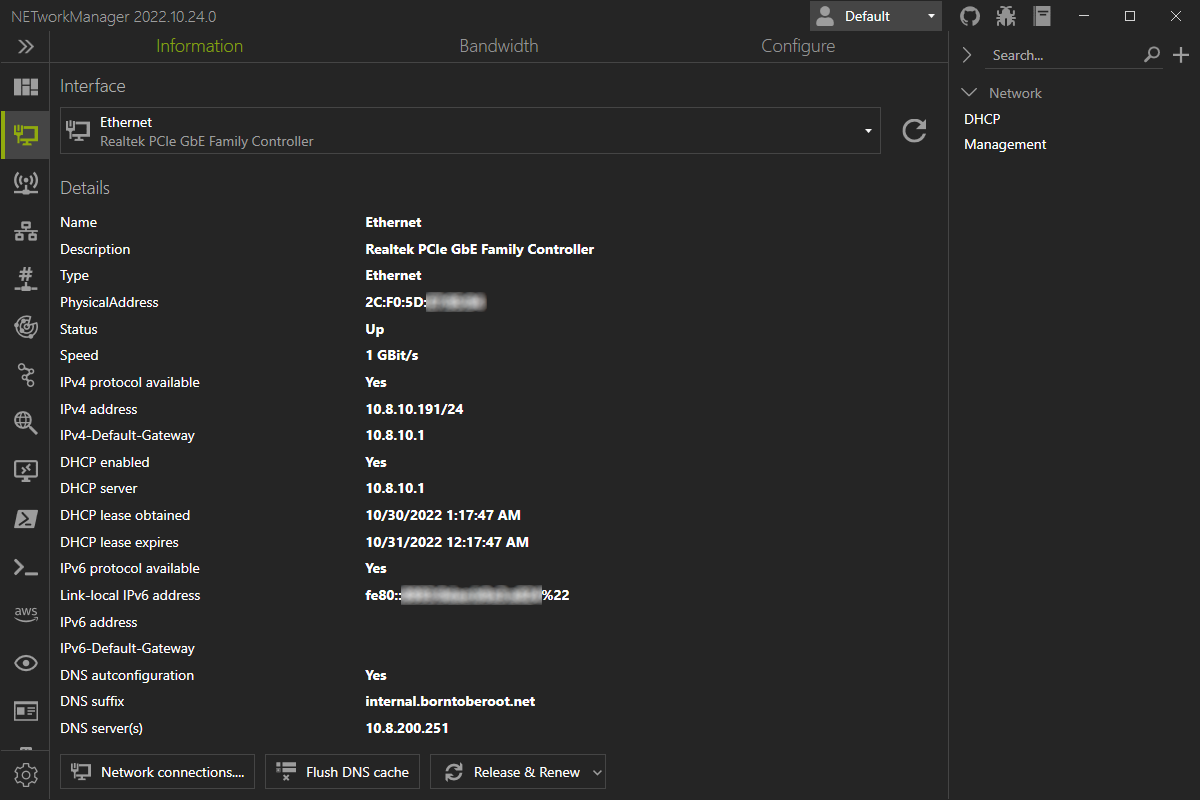
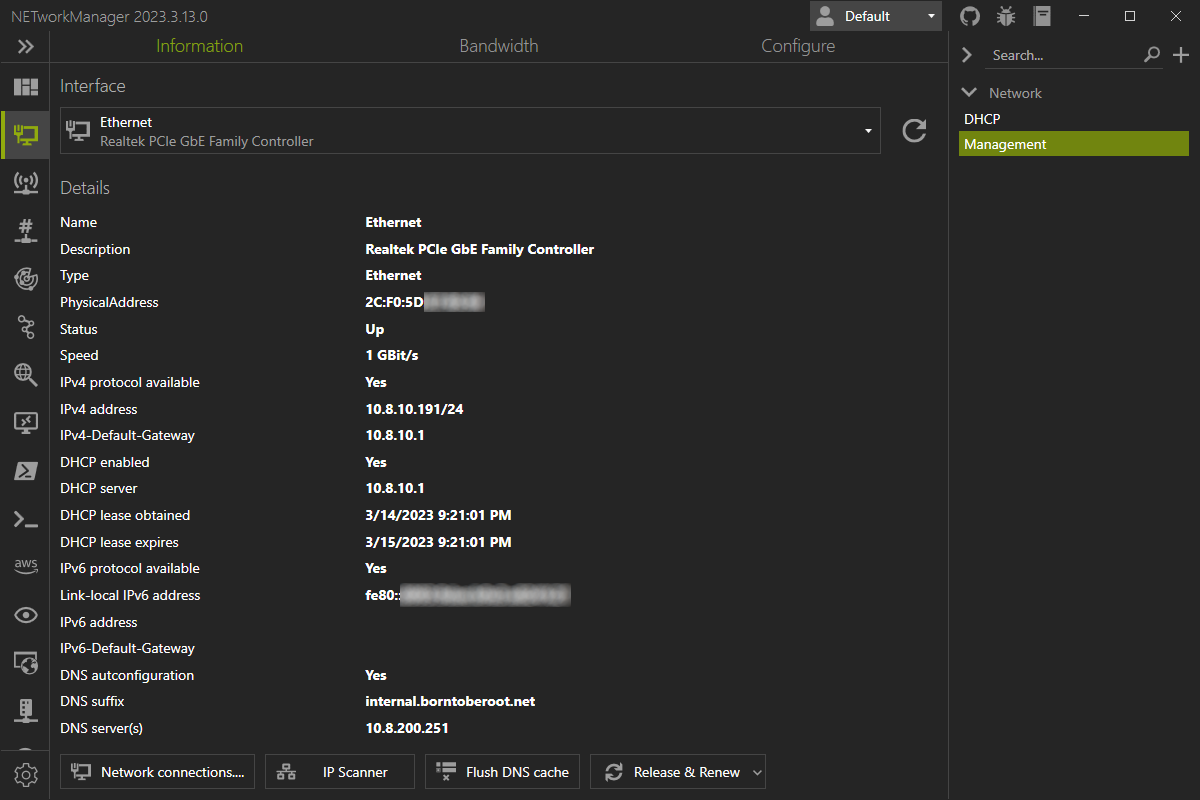
Docs: Add #2046 #2043 (#2047)

diff --git a/docs/Documentation/01_Application/02_NetworkInterface.md b/docs/Documentation/01_Application/02_NetworkInterface.md
@@ -18,17 +18,18 @@ On the **Information** tab, you can see all the important details of the selecte
 
 In addition, further actions can be performed using the buttons at the bottom left:
 
-- **Network connections...** - Opens the `Control Panel > Network and Internet > Network Connections` window
-- **Flush DNS cache** - Flush the DNS cache (`ipconfig /flushdns`)
+- **Network connections...** - Opens the `Control Panel > Network and Internet > Network Connections` window.
+- **IP Scanner** - Opens the [IP Scanner](/Documentation/Application/IPScanner) tool and forwards the IPv4 address and subnetmask of the _selected_ network adapter.
+- **Flush DNS cache** - Flush the DNS cache (`ipconfig /flushdns`).
 - **Release & Renew**
   - **IPv4**
-    - **Release & Renew** - Releases the current IPv4 addresses obtained via DHCP and renews them via DHCP for the _selected_ network adapter that is configured to automatically obtain an IPv4 address (`ipconfig /release && ipconfig /renew`)
-    - **Release** - Releases the current IPv4 addresses obtained via DHCP for the _selected_ network adapter that is configured to automatically obtain an IPv4 address. (`ipconfig /release`)
-    - **Renew** - Renews the current IPv4 address via DHCP for the _selected_ network adapter that is configured to automatically obtain an IPv4 address. (`ipconfig /renew`)
+    - **Release & Renew** - Releases the current IPv4 addresses obtained via DHCP and renews them via DHCP for the _selected_ network adapter that is configured to automatically obtain an IPv4 address (`ipconfig /release && ipconfig /renew <ADAPTER>`).
+    - **Release** - Releases the current IPv4 addresses obtained via DHCP for the _selected_ network adapter that is configured to automatically obtain an IPv4 address (`ipconfig /release <ADAPTER>`).
+    - **Renew** - Renews the current IPv4 address via DHCP for the _selected_ network adapter that is configured to automatically obtain an IPv4 address (`ipconfig /renew <ADAPTER>`).
   - **IPv6**
-    - **Release & Renew** - Releases the current IPv6 addresses obtained via DHCPv6 and renews them via DHCPv6 for the _selected_ adapter that ist configured to automatically obtain an IPv6 address (`ipconfig /release6 && ipconfig /renew6`)
-    - **Release** - Releases the current IPv6 addresses obtained via DHCPv6 for the _selected_ network adapter that is configured to automatically obtain an IPv6 address. (`ipconfig /release6`)
-    - **Renew** - Renews the current IPv6 address via DHCPv6 for the _selected_ network adapter that is configured to automatically obtain an IPv6 address. (`ipconfig /renew6`)
+    - **Release & Renew** - Releases the current IPv6 addresses obtained via DHCPv6 and renews them via DHCPv6 for the _selected_ adapter that ist configured to automatically obtain an IPv6 address (`ipconfig /release6 && ipconfig /renew6 <ADAPTER>`).
+    - **Release** - Releases the current IPv6 addresses obtained via DHCPv6 for the _selected_ network adapter that is configured to automatically obtain an IPv6 address (`ipconfig /release6 <ADAPTER>`).
+    - **Renew** - Renews the current IPv6 address via DHCPv6 for the _selected_ network adapter that is configured to automatically obtain an IPv6 address (`ipconfig /renew6 <ADAPTER>`).
 
 ![NetworkInterface_Information](02_NetworkInterface_Information.png)
 
